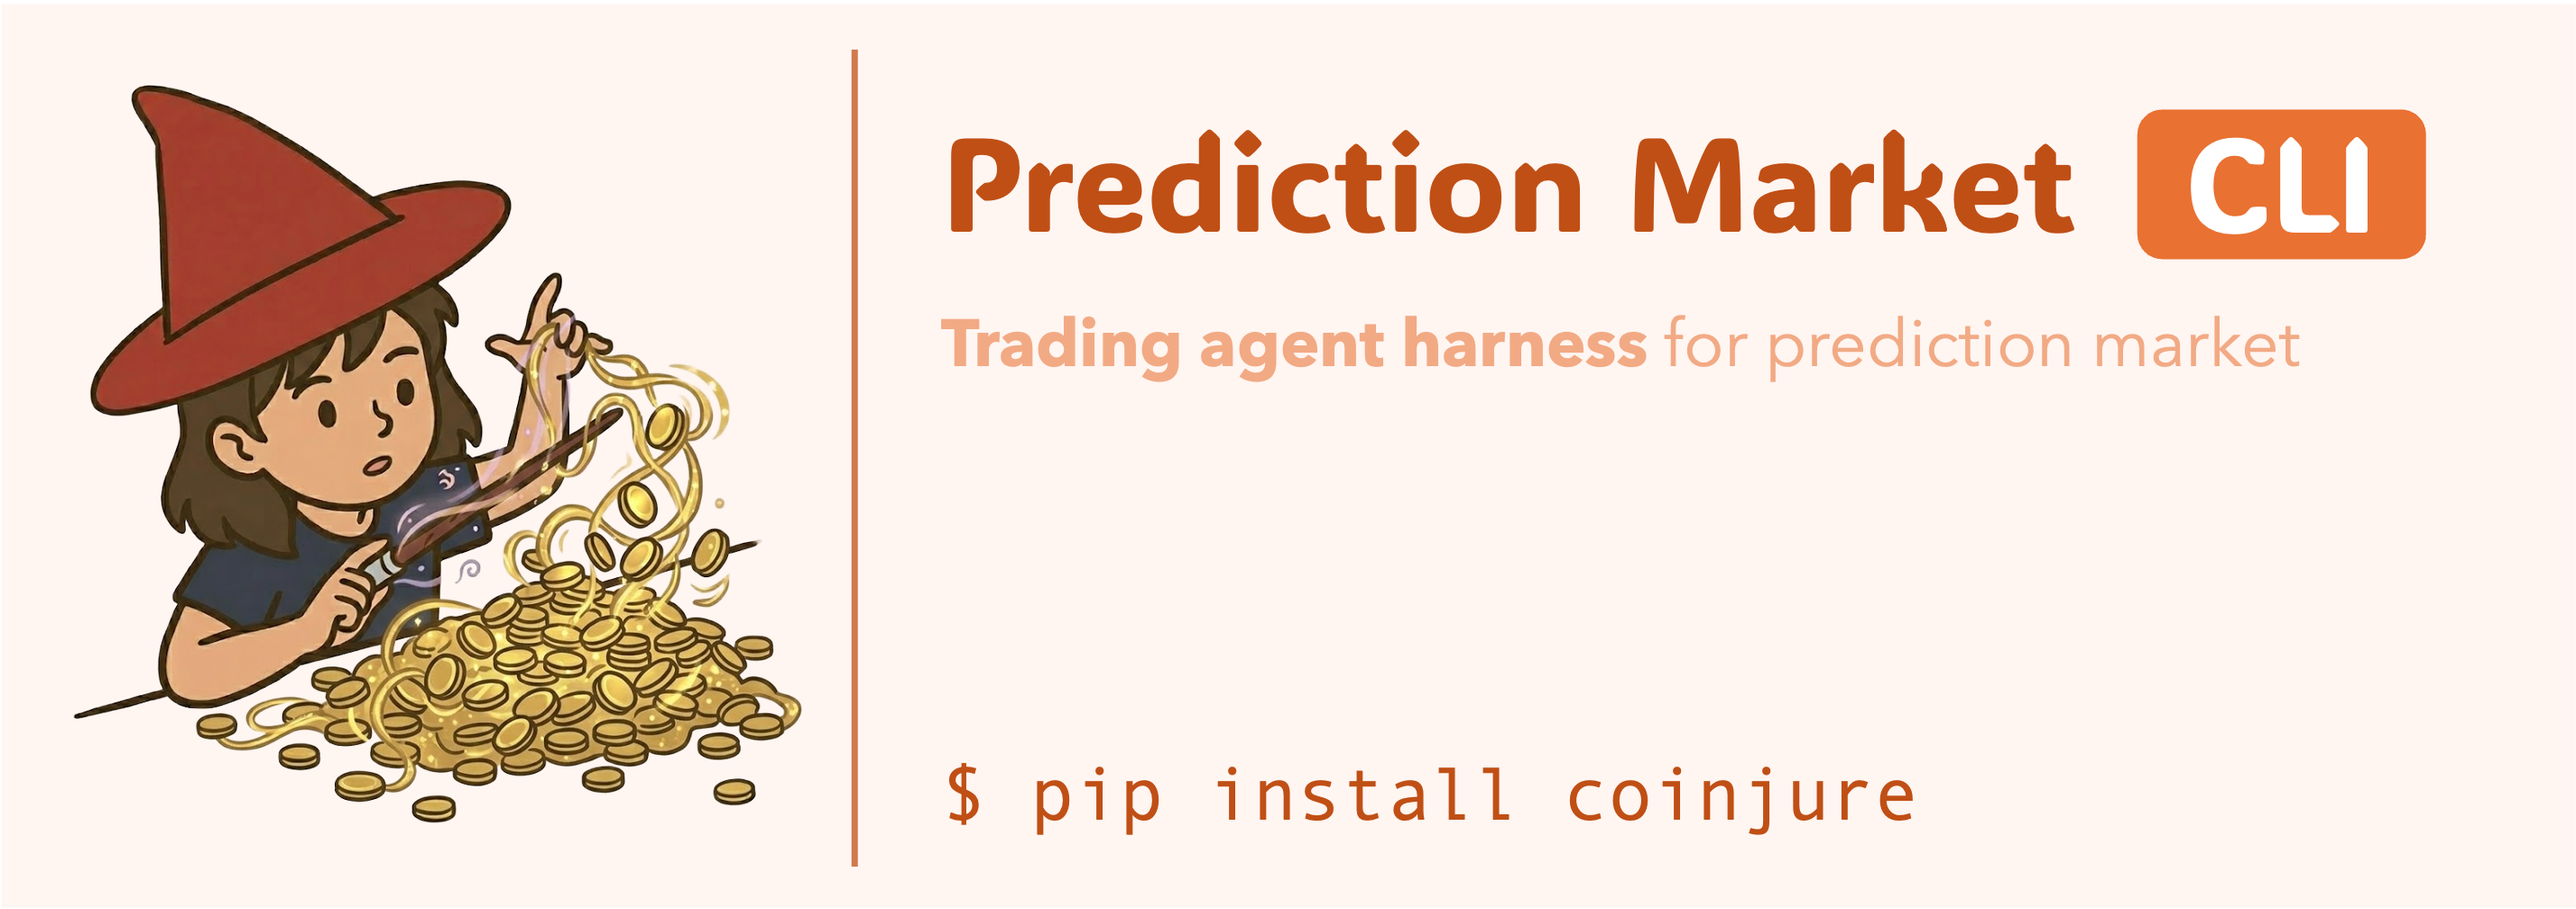
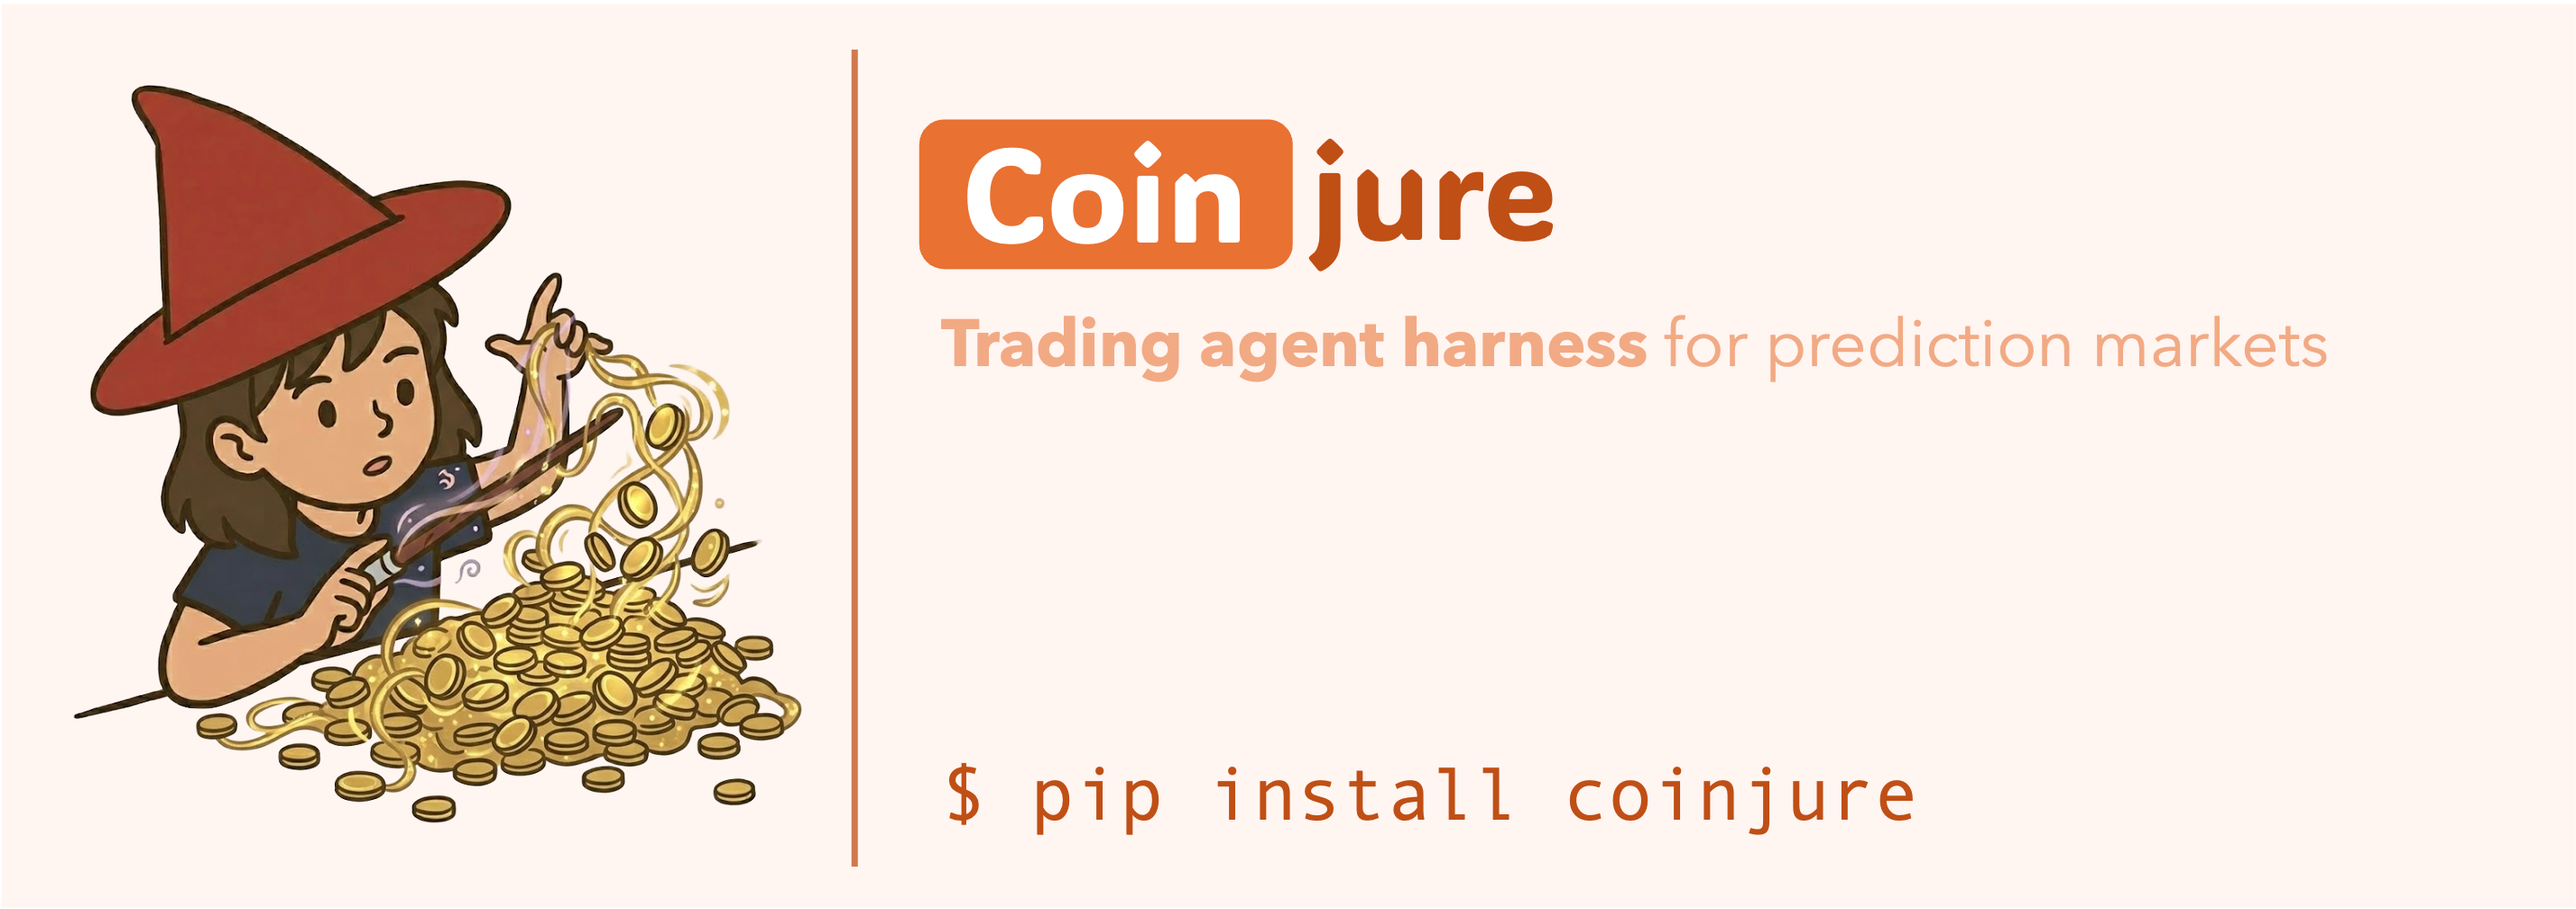
feat(name): change prediction-market-cli into coinjure (#223)
* update

* update

* update

* update

Changed region(s): [[0.3429, 0.123, 0.9664, 0.3075], [0.8729, 0.369, 0.904, 0.3998]]

diff --git a/blog/index.html b/blog/index.html
@@ -845,19 +845,14 @@
   <body>
     <!-- NAV -->
     <nav class="nav">
-      <a href="/prediction-market-cli/docs/index.html" class="nav-logo"
+      <a href="/coinjure/docs/index.html" class="nav-logo"
         ><span style="color: #d4a017">Coin</span
         ><span style="color: #2c5f8a">jure</span></a
       >
       <div class="nav-r">
-        <a href="/prediction-market-cli/docs/index.html" class="nav-link"
-          >Docs</a
-        >
+        <a href="/coinjure/docs/index.html" class="nav-link">Docs</a>
         <a href="#" class="nav-link" style="color: var(--t1)">Blog</a>
-        <a
-          href="https://github.com/ulab-uiuc/prediction-market-cli"
-          class="gh-pill"
-        >
+        <a href="https://github.com/ulab-uiuc/coinjure" class="gh-pill">
           <svg width="12" height="12" viewBox="0 0 16 16" fill="currentColor">
             <path
               d="M8 0C3.58 0 0 3.58 0 8c0 3.54 2.29 6.53 5.47 7.59.4.07.55-.17.55-.38 0-.19-.01-.82-.01-1.49-2.01.37-2.53-.49-2.69-.94-.09-.23-.48-.94-.82-1.13-.28-.15-.68-.52-.01-.53.63-.01 1.08.58 1.23.82.72 1.21 1.87.87 2.33.66.07-.52.28-.87.51-1.07-1.78-.2-3.64-.89-3.64-3.95 0-.87.31-1.59.82-2.15-.08-.2-.36-1.02.08-2.12 0 0 .67-.21 2.2.82.64-.18 1.32-.27 2-.27.68 0 1.36.09 2 .27 1.53-1.04 2.2-.82 2.2-.82.44 1.1.16 1.92.08 2.12.51.56.82 1.27.82 2.15 0 3.07-1.87 3.75-3.65 3.95.29.25.54.73.54 1.48 0 1.07-.01 1.93-.01 2.2 0 .21.15.46.55.38A8.01 8.01 0 0016 8c0-4.42-3.58-8-8-8z"
@@ -914,14 +909,10 @@
         </div>
 
         <div class="hero-btns">
-          <a
-            href="https://github.com/ulab-uiuc/prediction-market-cli"
-            class="btn btn-dark"
+          <a href="https://github.com/ulab-uiuc/coinjure" class="btn btn-dark"
             >Code</a
           >
-          <a href="/prediction-market-cli/docs/index.html" class="btn btn-ghost"
-            >Docs</a
-          >
+          <a href="/coinjure/docs/index.html" class="btn btn-ghost">Docs</a>
         </div>
       </header>
 
@@ -4197,7 +4188,7 @@
   title   = {Coinjure: A Trading Agent Harness for Prediction Markets},
   author  = {Yu, Haofei and Yang, Yicheng and Liu, Yuxiang and You, Jiaxuan},
   year    = {2026},
-  url     = {https://github.com/ulab-uiuc/prediction-market-cli},
+  url     = {https://github.com/ulab-uiuc/coinjure},
   note    = {University of Illinois Urbana-Champaign}
 }</pre
           >
@@ -4208,8 +4199,8 @@
     <!-- FOOTER -->
     <footer class="footer">
       <div class="footer-links">
-        <a href="/prediction-market-cli/docs/index.html">Docs</a>
-        <a href="https://github.com/ulab-uiuc/prediction-market-cli">GitHub</a>
+        <a href="/coinjure/docs/index.html">Docs</a>
+        <a href="https://github.com/ulab-uiuc/coinjure">GitHub</a>
       </div>
       &copy; 2026 Coinjure &middot; Apache 2.0
     </footer>

diff --git a/docs/overrides/main.html b/docs/overrides/main.html
@@ -90,10 +90,7 @@
   <div class="nav-r">
     <a href="{{ base_url }}" class="nav-link" style="color: #18222e">Docs</a>
     <a href="javascript:void(0)" class="nav-link" id="blog-link">Blog</a>
-    <a
-      href="https://github.com/ulab-uiuc/prediction-market-cli"
-      class="gh-pill"
-    >
+    <a href="https://github.com/ulab-uiuc/coinjure" class="gh-pill">
       <svg width="12" height="12" viewBox="0 0 16 16" fill="currentColor">
         <path
           d="M8 0C3.58 0 0 3.58 0 8c0 3.54 2.29 6.53 5.47 7.59.4.07.55-.17.55-.38 0-.19-.01-.82-.01-1.49-2.01.37-2.53-.49-2.69-.94-.09-.23-.48-.94-.82-1.13-.28-.15-.68-.52-.01-.53.63-.01 1.08.58 1.23.82.72 1.21 1.87.87 2.33.66.07-.52.28-.87.51-1.07-1.78-.2-3.64-.89-3.64-3.95 0-.87.31-1.59.82-2.15-.08-.2-.36-1.02.08-2.12 0 0 .67-.21 2.2.82.64-.18 1.32-.27 2-.27.68 0 1.36.09 2 .27 1.53-1.04 2.2-.82 2.2-.82.44 1.1.16 1.92.08 2.12.51.56.82 1.27.82 2.15 0 3.07-1.87 3.75-3.65 3.95.29.25.54.73.54 1.48 0 1.07-.01 1.93-.01 2.2 0 .21.15.46.55.38A8.01 8.01 0 0016 8c0-4.42-3.58-8-8-8z"

diff --git a/blog/gen_pie.py b/blog/gen_pie.py
@@ -194,7 +194,7 @@ for ax in axes:
     ax.set_aspect('equal')
 
 plt.savefig(
-    '/Users/yuhaofei/Downloads/prediction-market-cli/blog/trading_loop.png',
+    '/Users/yuhaofei/Downloads/coinjure/blog/trading_loop.png',
     dpi=200,
     bbox_inches='tight',
     facecolor='#f3f6fb',

diff --git a/README.md b/README.md
@@ -7,11 +7,11 @@
 <p align="center">
   <a href="https://www.python.org/downloads/"><img src="https://img.shields.io/badge/python-3.10%2B-blue.svg" alt="Python 3.10+"></a>
   <a href="https://pypi.org/project/coinjure/"><img src="https://img.shields.io/pypi/v/coinjure.svg" alt="PyPI version"></a>
-  <a href="https://github.com/ulab-uiuc/prediction-market-cli/blob/main/LICENSE"><img src="https://img.shields.io/badge/license-MIT-green.svg" alt="License"></a>
+  <a href="https://github.com/ulab-uiuc/coinjure/blob/main/LICENSE"><img src="https://img.shields.io/badge/license-MIT-green.svg" alt="License"></a>
   <a href="https://join.slack.com/t/coinjure/shared_invite/zt-3uji79vht-thjQnb4LJtLrN13pifTIuw"><img src="https://img.shields.io/badge/Slack-Join%20Us-purple?logo=slack" alt="Slack"></a>
   <a href="assets/coinjure_wechat_link.jpg"><img src="https://img.shields.io/badge/WeChat-Join%20Us-green?logo=wechat" alt="WeChat"></a>
-  <a href="https://ulab-uiuc.github.io/prediction-market-cli/"><img src="https://img.shields.io/badge/Blog-Read-orange" alt="Blog"></a>
-  <a href="https://ulab-uiuc.github.io/prediction-market-cli/docs/index.html"><img src="https://img.shields.io/badge/Docs-Read-blue" alt="Docs"></a>
+  <a href="https://ulab-uiuc.github.io/coinjure/"><img src="https://img.shields.io/badge/Blog-Read-orange" alt="Blog"></a>
+  <a href="https://ulab-uiuc.github.io/coinjure/docs/index.html"><img src="https://img.shields.io/badge/Docs-Read-blue" alt="Docs"></a>
 </p>
 
 **Coinjure** is a trading agent harness for prediction markets. It empowers LLM agents to drive the entire strategy lifecycle purely through CLI commands — autonomously discovering cross-market relations, building executable strategies, running large-scale backtests, and deploying to live execution.
@@ -33,8 +33,8 @@ pip install coinjure
 From source:
 
 ```bash
-git clone https://github.com/ulab-uiuc/prediction-market-cli.git
-cd prediction-market-cli
+git clone https://github.com/ulab-uiuc/coinjure.git
+cd coinjure
 pip install poetry
 poetry install
 ```
@@ -168,14 +168,14 @@ If you find Coinjure useful in your research or work, please cite:
   title   = {Coinjure: A Trading Agent Harness for Prediction Markets},
   author  = {Yu, Haofei and Yang, Yicheng and Liu, Yuxiang and You, Jiaxuan},
   year    = {2026},
-  url     = {https://github.com/ulab-uiuc/prediction-market-cli},
+  url     = {https://github.com/ulab-uiuc/coinjure},
   note    = {University of Illinois Urbana-Champaign}
 }
 ```
 
 ## License
 
-[MIT](https://github.com/ulab-uiuc/prediction-market-cli/blob/main/LICENSE)
+[MIT](https://github.com/ulab-uiuc/coinjure/blob/main/LICENSE)
 
 ## Disclaimer
 

diff --git a/docs/index.md b/docs/index.md
@@ -2,7 +2,7 @@
 
 [![Python 3.10+](https://img.shields.io/badge/python-3.10%2B-blue.svg)](https://www.python.org/downloads/)
 [![PyPI version](https://img.shields.io/pypi/v/coinjure.svg)](https://pypi.org/project/coinjure/)
-[![License](https://img.shields.io/badge/license-MIT-green.svg)](https://github.com/ulab-uiuc/prediction-market-cli/blob/main/LICENSE)
+[![License](https://img.shields.io/badge/license-MIT-green.svg)](https://github.com/ulab-uiuc/coinjure/blob/main/LICENSE)
 
 **Coinjure** is a trading agent harness for [Polymarket](https://polymarket.com/) and [Kalshi](https://kalshi.com/) prediction markets. It empowers LLM agents to drive the entire strategy lifecycle purely through CLI commands — autonomously discovering cross-market relations, building executable strategies, running large-scale backtests, and deploying to live execution.
 
@@ -36,7 +36,7 @@ pip install coinjure
 Or install from source with [Poetry](https://python-poetry.org/):
 
 ```bash
-git clone https://github.com/ulab-uiuc/prediction-market-cli.git
+git clone https://github.com/ulab-uiuc/coinjure.git
 cd coinjure
 pip install poetry
 poetry install
@@ -148,7 +148,7 @@ export NEWS_API_KEY="your_news_api_key"             # Optional, for News API sou
 
 ## License
 
-[MIT](https://github.com/ulab-uiuc/prediction-market-cli/blob/main/LICENSE)
+[MIT](https://github.com/ulab-uiuc/coinjure/blob/main/LICENSE)
 
 !!! warning "Disclaimer"
 This software is for **educational and research purposes only**. Trading involves substantial risk of loss. Always test strategies with paper trading before using real funds.

diff --git a/docs/PROJECT_SPECIFICATION.md b/docs/PROJECT_SPECIFICATION.md
@@ -61,7 +61,7 @@
 ## 3. Project Directory Structure
 
 ```
-prediction-market-cli/
+coinjure/
 ├── coinjure/                        # Main package
 │   ├── ticker.py                    # Ticker, PolyMarketTicker, KalshiTicker, CashTicker
 │   ├── events.py                    # Event, PriceChangeEvent, OrderBookEvent, NewsEvent

diff --git a/docs/CLI_QUICK_START.md b/docs/CLI_QUICK_START.md
@@ -182,4 +182,4 @@ coinjure monitor > session_report.txt
 Issues? Questions? See:
 
 - [CLI Monitoring Documentation](CLI_MONITORING.md)
-- [GitHub Issues](https://github.com/ulab-uiuc/prediction-market-cli/issues)
+- [GitHub Issues](https://github.com/ulab-uiuc/coinjure/issues)
